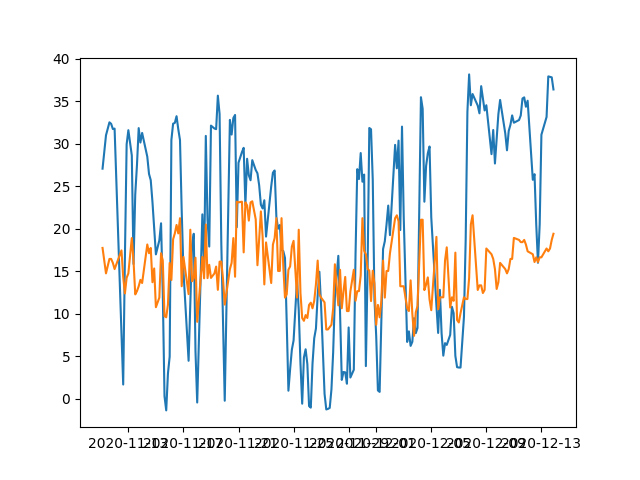
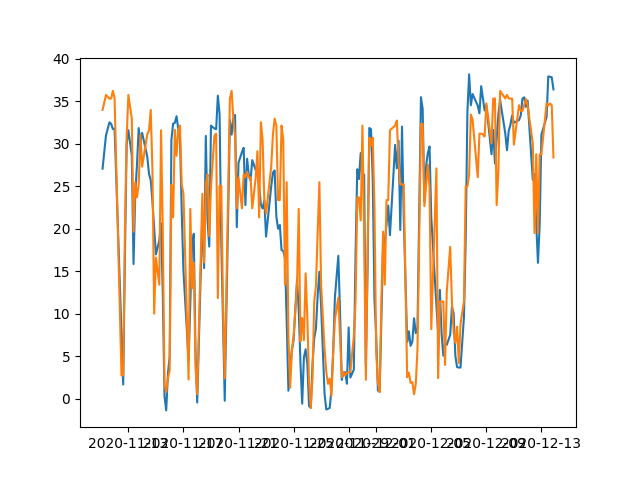
loggin model to Azure

Changed region(s): [[0.1562, 0.1875, 0.875, 0.8438]]

diff --git a/handin/tracking.py b/handin/tracking.py
@@ -30,7 +30,7 @@ from sklearn.impute import SimpleImputer
 
 # Start a run
 # TODO: Set a descriptive name. This is optional, but makes it easier to keep track of your runs.
-with mlflow.start_run(run_name="SVR"):
+with mlflow.start_run(run_name="RFR_250"):
     df = pd.read_json("dataset.json", orient="split")
 
     metrics = [
@@ -48,8 +48,9 @@ with mlflow.start_run(run_name="SVR"):
     
     encoder = OneHotEncoder(handle_unknown='ignore', sparse = False)
     ct = ColumnTransformer([('encoder transformer', encoder, ['Direction'])], remainder="passthrough")
-    model = SVR()
+    model = RandomForestRegressor(n_estimators=250)
     scaler = MaxAbsScaler()
+    
     
     pipeline = Pipeline([
          ('column_transformer', ct),
@@ -61,8 +62,9 @@ with mlflow.start_run(run_name="SVR"):
     i = 0
     mlflow.log_params({"splits":number_of_splits,"model":model,"scaler":scaler,"encoder":encoder})
     for train, test in TimeSeriesSplit(number_of_splits).split(X,y):
-        pipeline.fit(X.iloc[train],y.iloc[train])
-        predictions = pipeline.predict(X.iloc[test])
+        model = pipeline.fit(X.iloc[train],y.iloc[train])
+        #pipeline.fit(X.iloc[train],y.iloc[train])
+        predictions = model.predict(X.iloc[test])
         truth = y.iloc[test]
         from matplotlib import pyplot as plt 
         plt.plot(truth.index, truth.values, label="Truth")
@@ -84,3 +86,7 @@ with mlflow.start_run(run_name="SVR"):
             # Are there other summarizations that could be interesting?
             mean_score = sum(scores)/number_of_splits
             mlflow.log_metric(f"mean_{name}", mean_score)
+            
+    mlflow.sklearn.log_model(sk_model = model,
+                             artifact_path = 'power_gen-pyfile-model',
+                             registered_model_name = 'power_gen-pyfile-model')
